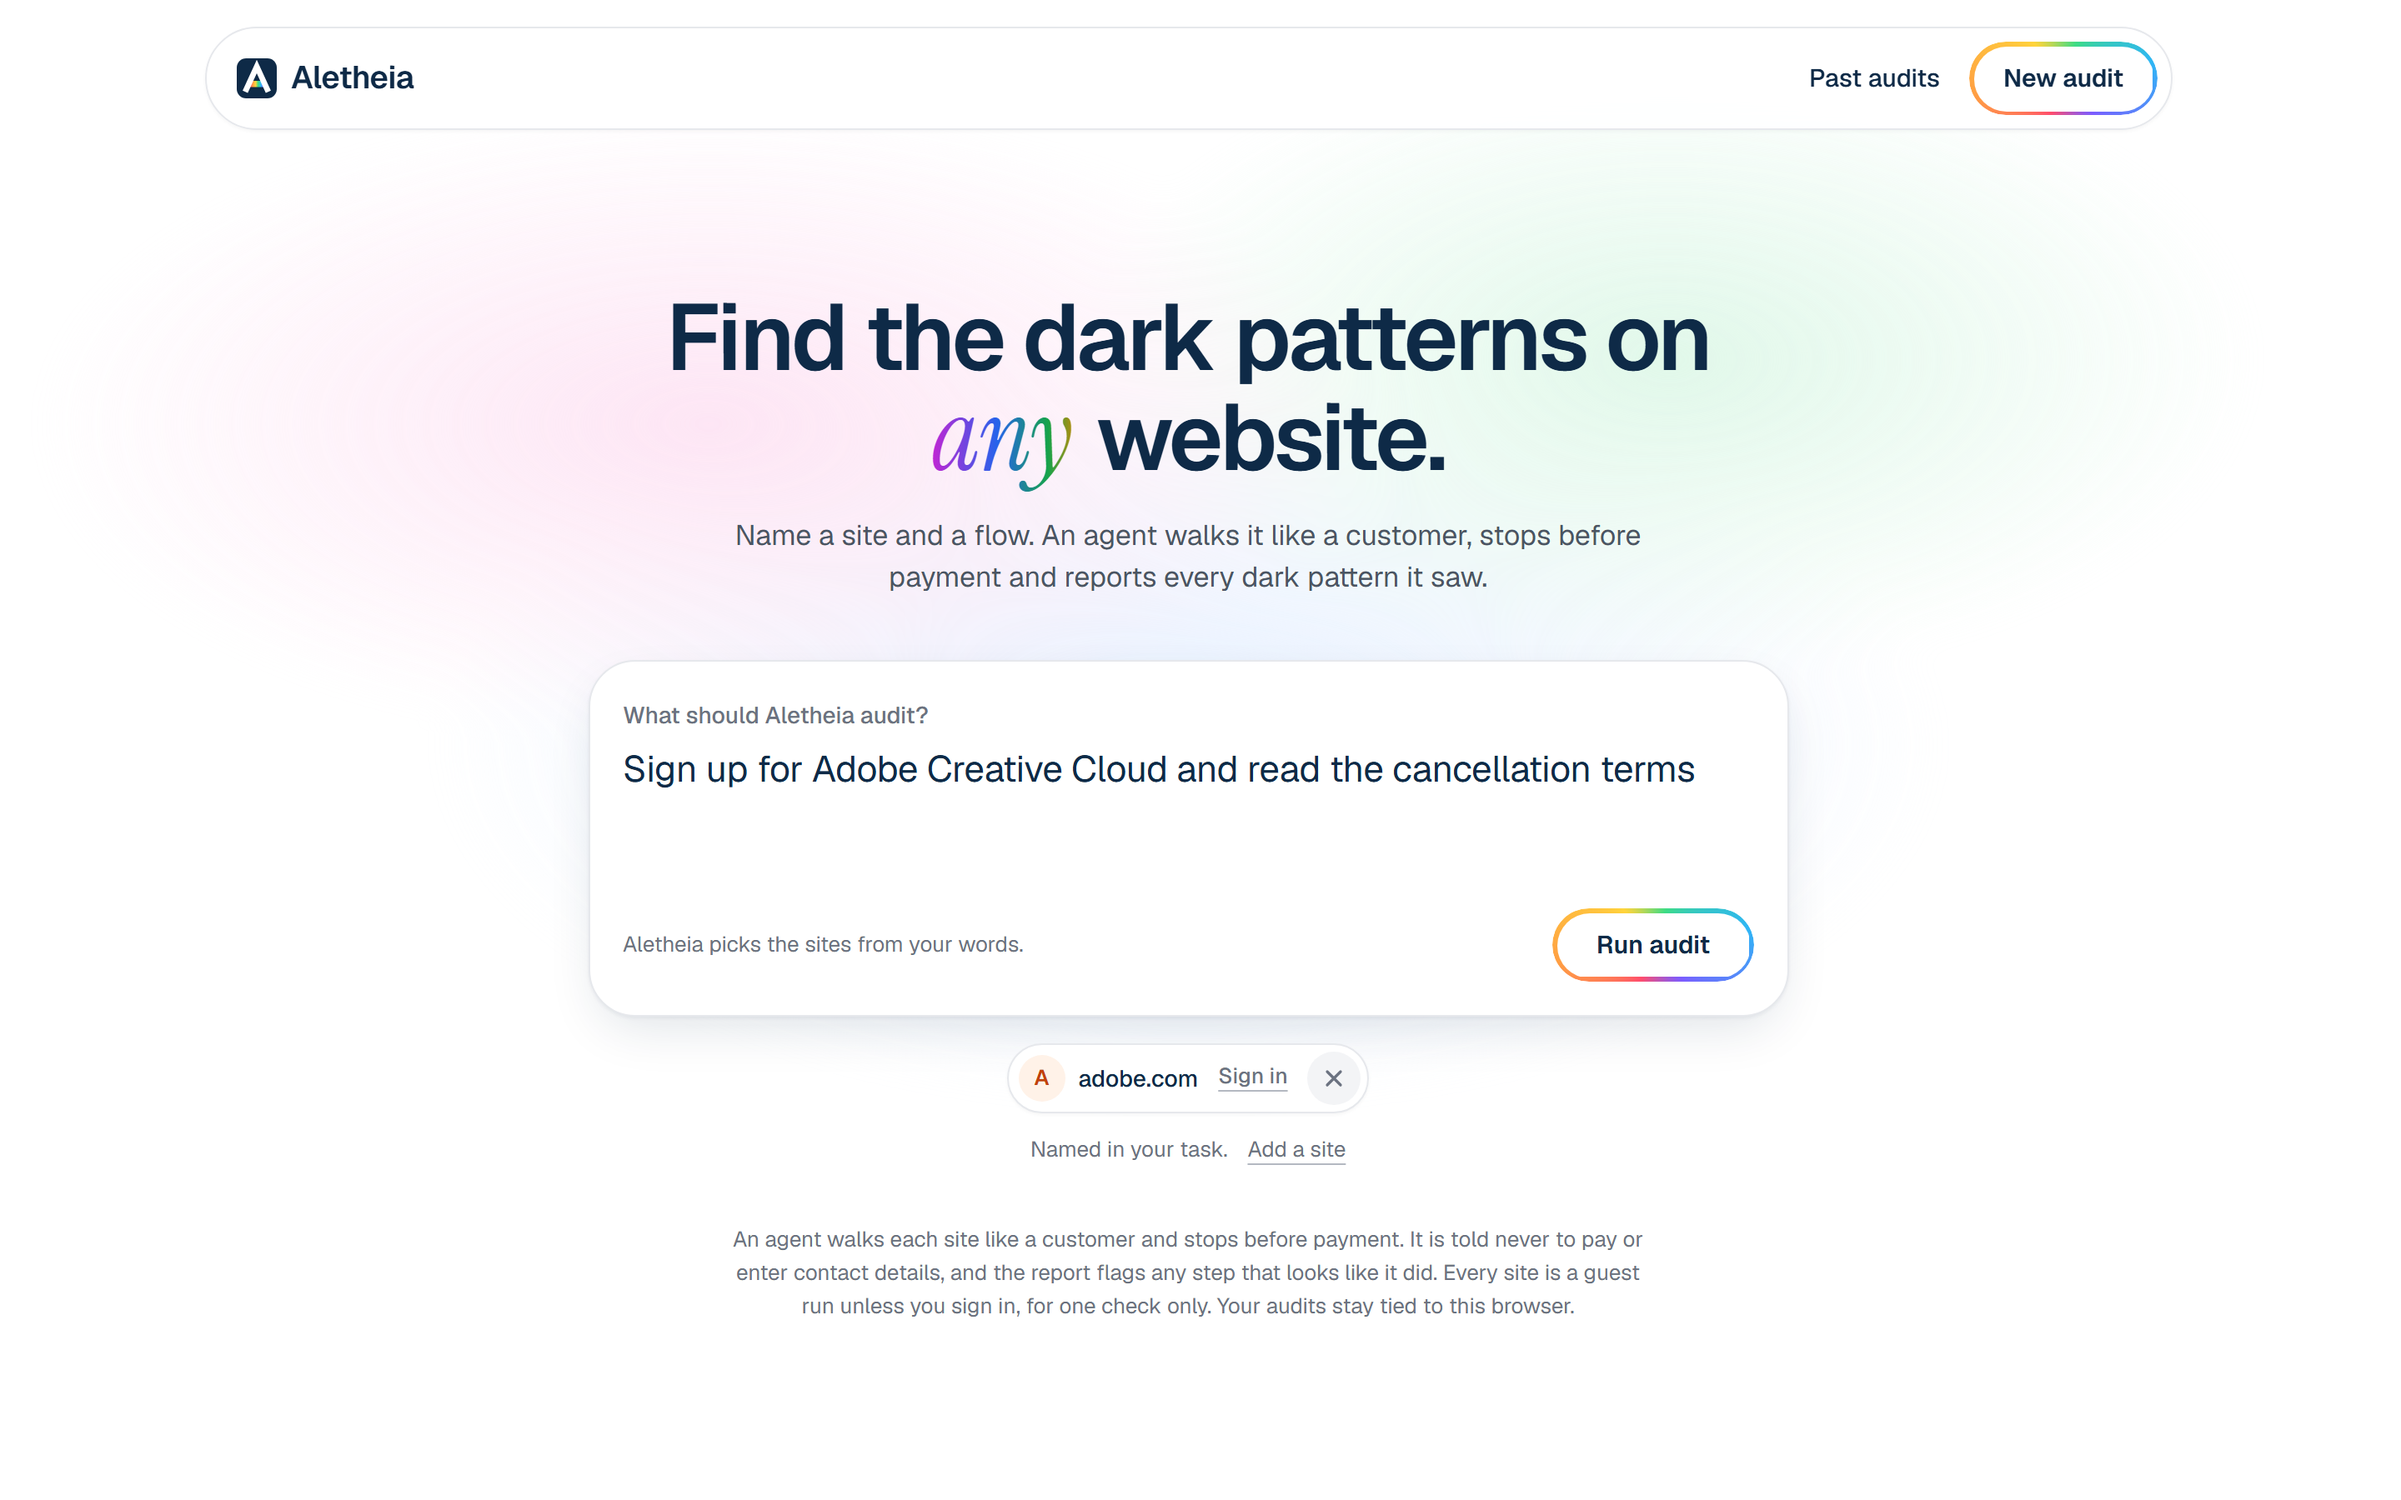
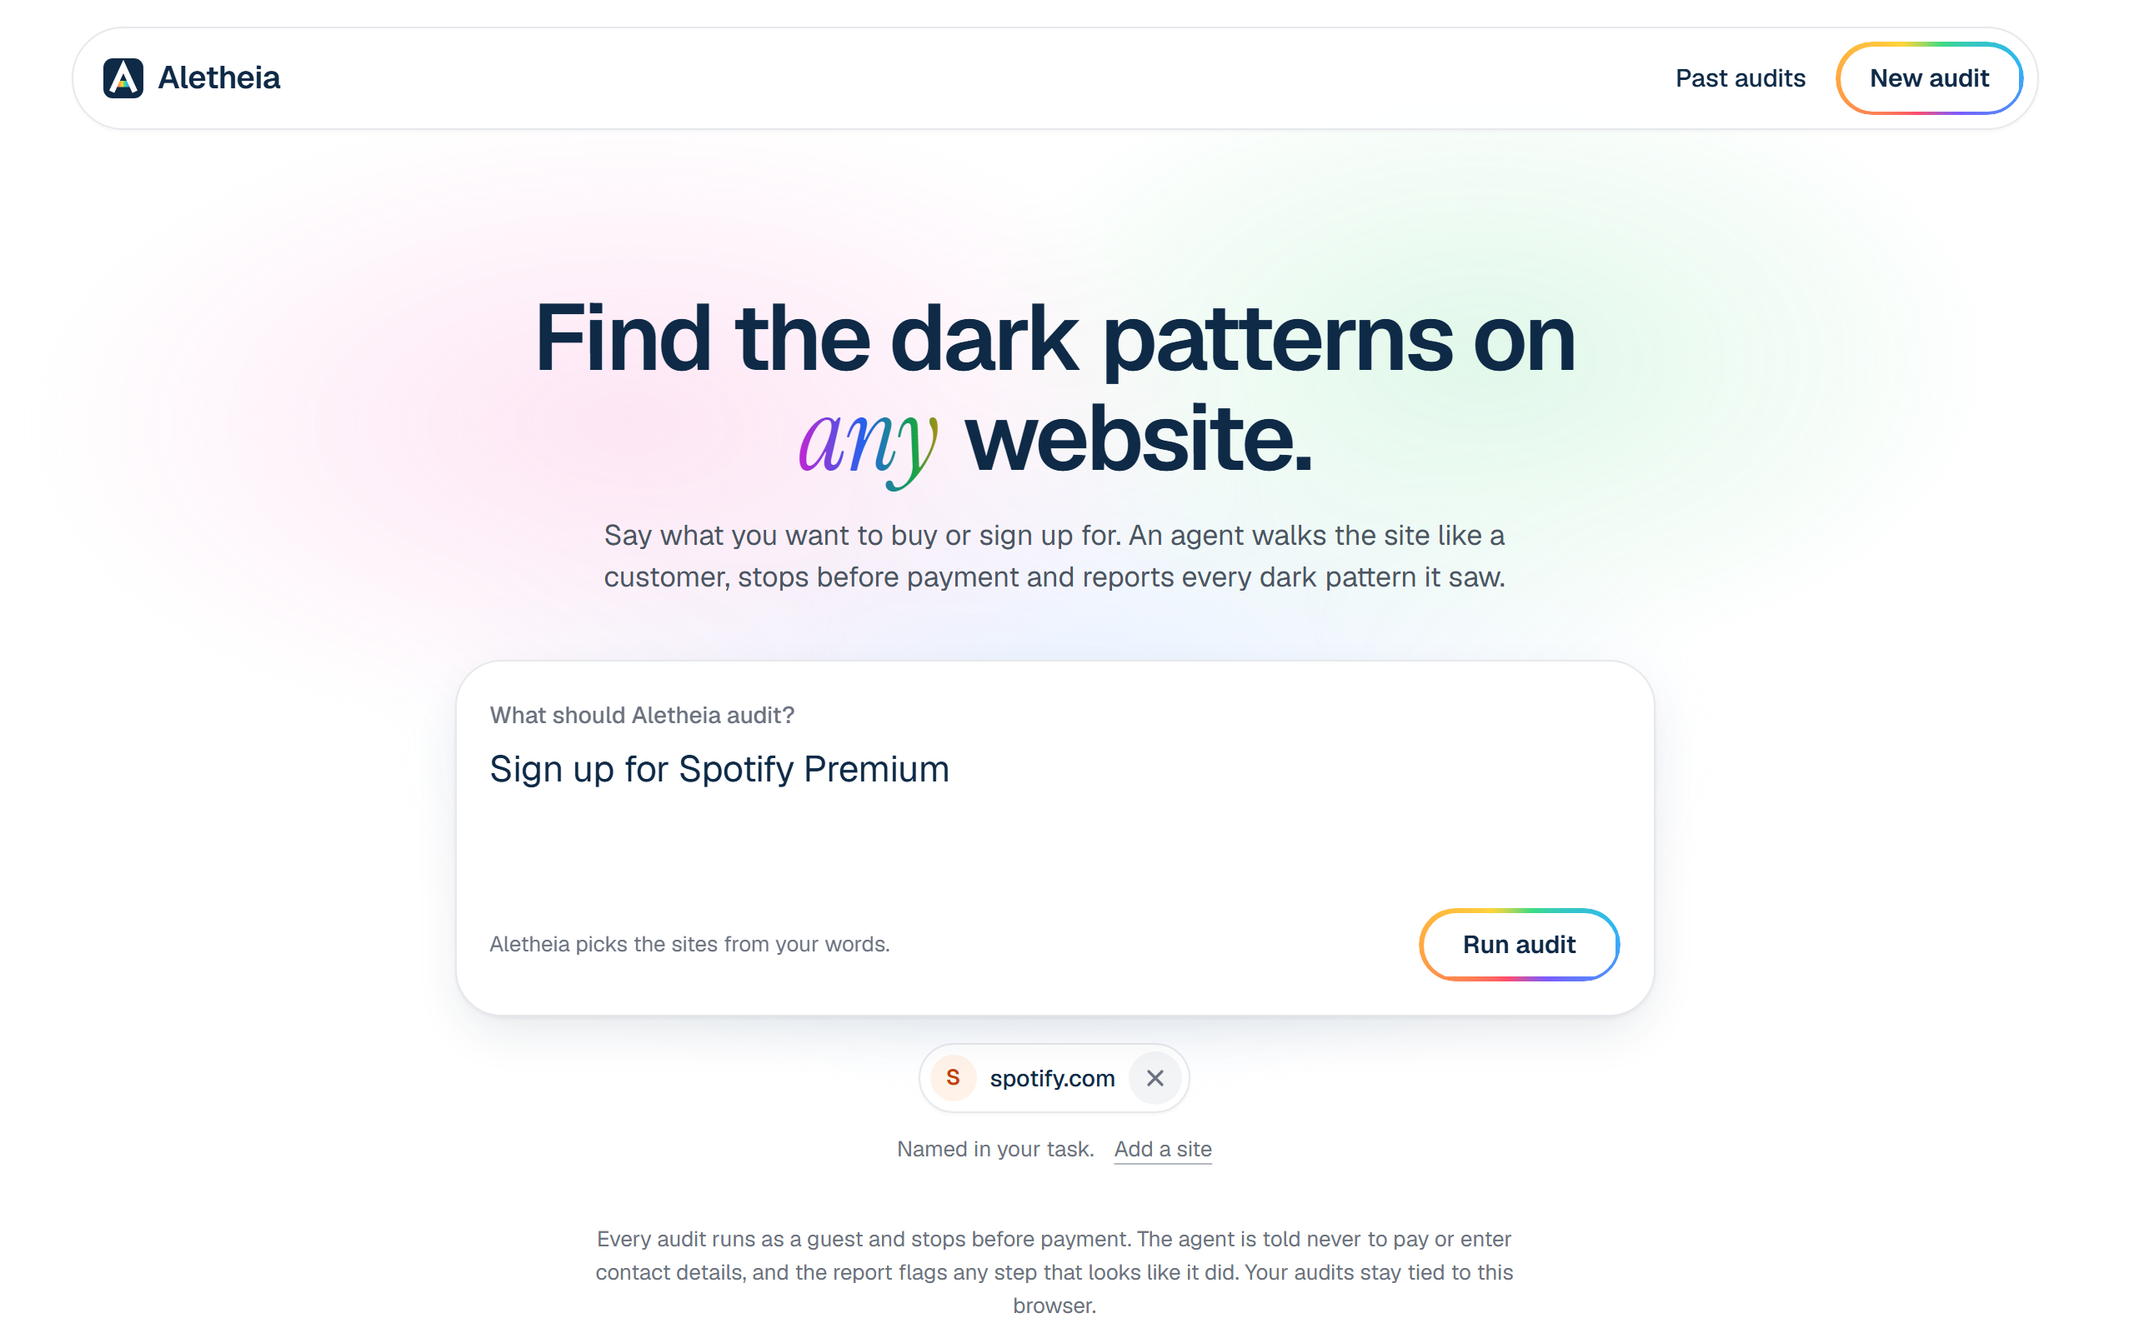
docs: retook the repo images from the live site and redrew the pattern strip

diff --git a/docs/design/social-preview.html b/docs/design/social-preview.html
@@ -41,13 +41,13 @@
       }
 
       .strip {
-        gap: 7px;
+        gap: 4px;
         margin-top: 34px;
       }
 
       .strip i {
-        height: 20px;
-        width: 20px;
+        height: 13px;
+        width: 13px;
       }
 
       .panel {
@@ -68,17 +68,20 @@
         </div>
         <h1>Find the dark patterns on <em class="accent">any</em> website.</h1>
         <div class="strip" aria-hidden="true">
-          <i></i><i></i><i></i><i></i><i class="found"></i><i></i><i class="unchecked"></i><i></i
-          ><i></i><i></i><i class="unchecked"></i><i></i><i></i>
+          <i></i><i class="unchecked"></i><i class="unchecked"></i><i class="unchecked"></i
+          ><i class="found"></i><i></i><i></i><i></i><i class="unchecked"></i><i></i>
+          <i class="unchecked"></i><i></i><i class="unchecked"></i><i></i><i></i><i></i><i></i
+          ><i></i><i class="unchecked"></i><i></i> <i></i><i></i><i></i><i class="unchecked"></i
+          ><i></i><i></i><i></i><i></i><i></i>
         </div>
       </section>
       <section class="panel">
         <img
           class="evidence"
-          src="adobe-finding.png"
-          alt="A subscription trap finding on Adobe, with its quote, step and screenshot"
+          src="finding.png"
+          alt="A crossed-out price finding on a laptop checkout, with its quote, step and screenshot"
           width="560"
-          height="233"
+          height="194"
         />
       </section>
     </main>

diff --git a/docs/design/how-it-works.html b/docs/design/how-it-works.html
@@ -87,12 +87,12 @@
 
       .strip {
         align-self: flex-start;
-        gap: 7px;
+        gap: 4px;
       }
 
       .strip i {
-        height: 20px;
-        width: 20px;
+        height: 13px;
+        width: 13px;
       }
 
       .evidence {
@@ -164,15 +164,18 @@
       </section>
       <section class="panel">
         <div class="strip" aria-hidden="true">
-          <i></i><i></i><i></i><i></i><i class="found"></i><i></i><i class="unchecked"></i><i></i
-          ><i></i><i></i><i class="unchecked"></i><i></i><i></i>
+          <i></i><i class="unchecked"></i><i class="unchecked"></i><i class="unchecked"></i
+          ><i class="found"></i><i></i><i></i><i></i><i class="unchecked"></i><i></i>
+          <i class="unchecked"></i><i></i><i class="unchecked"></i><i></i><i></i><i></i><i></i
+          ><i></i><i class="unchecked"></i><i></i> <i></i><i></i><i></i><i class="unchecked"></i
+          ><i></i><i></i><i></i><i></i><i></i>
         </div>
         <img
           class="evidence"
-          src="adobe-finding.png"
-          alt="A subscription trap finding on Adobe, with its quote, step and screenshot"
+          src="finding.png"
+          alt="A crossed-out price finding on a laptop checkout, with its quote, step and screenshot"
           width="560"
-          height="233"
+          height="194"
         />
       </section>
     </main>

diff --git a/docs/design/portrait.css b/docs/design/portrait.css
@@ -81,6 +81,7 @@ body {
 
 .strip {
   display: flex;
+  flex-wrap: wrap;
 }
 
 .strip i {

diff --git a/README.md b/README.md
@@ -8,7 +8,7 @@
 
 <p align="center"><a href="https://aletheia.romitraj.dev">aletheia.romitraj.dev</a></p>
 
-<a href="https://aletheia.romitraj.dev"><img src="docs/images/home.png" alt="The Aletheia home page: one box for the task, with adobe.com picked from the words" /></a>
+<a href="https://aletheia.romitraj.dev"><img src="docs/images/home.png" alt="The Aletheia home page: one box for the task, with spotify.com picked from the words" /></a>
 
 Aletheia walks a site's checkout or sign-up flow like a customer, stops before payment and reports the dark patterns it saw. Each finding comes with its quote, its step and a screenshot.
 
